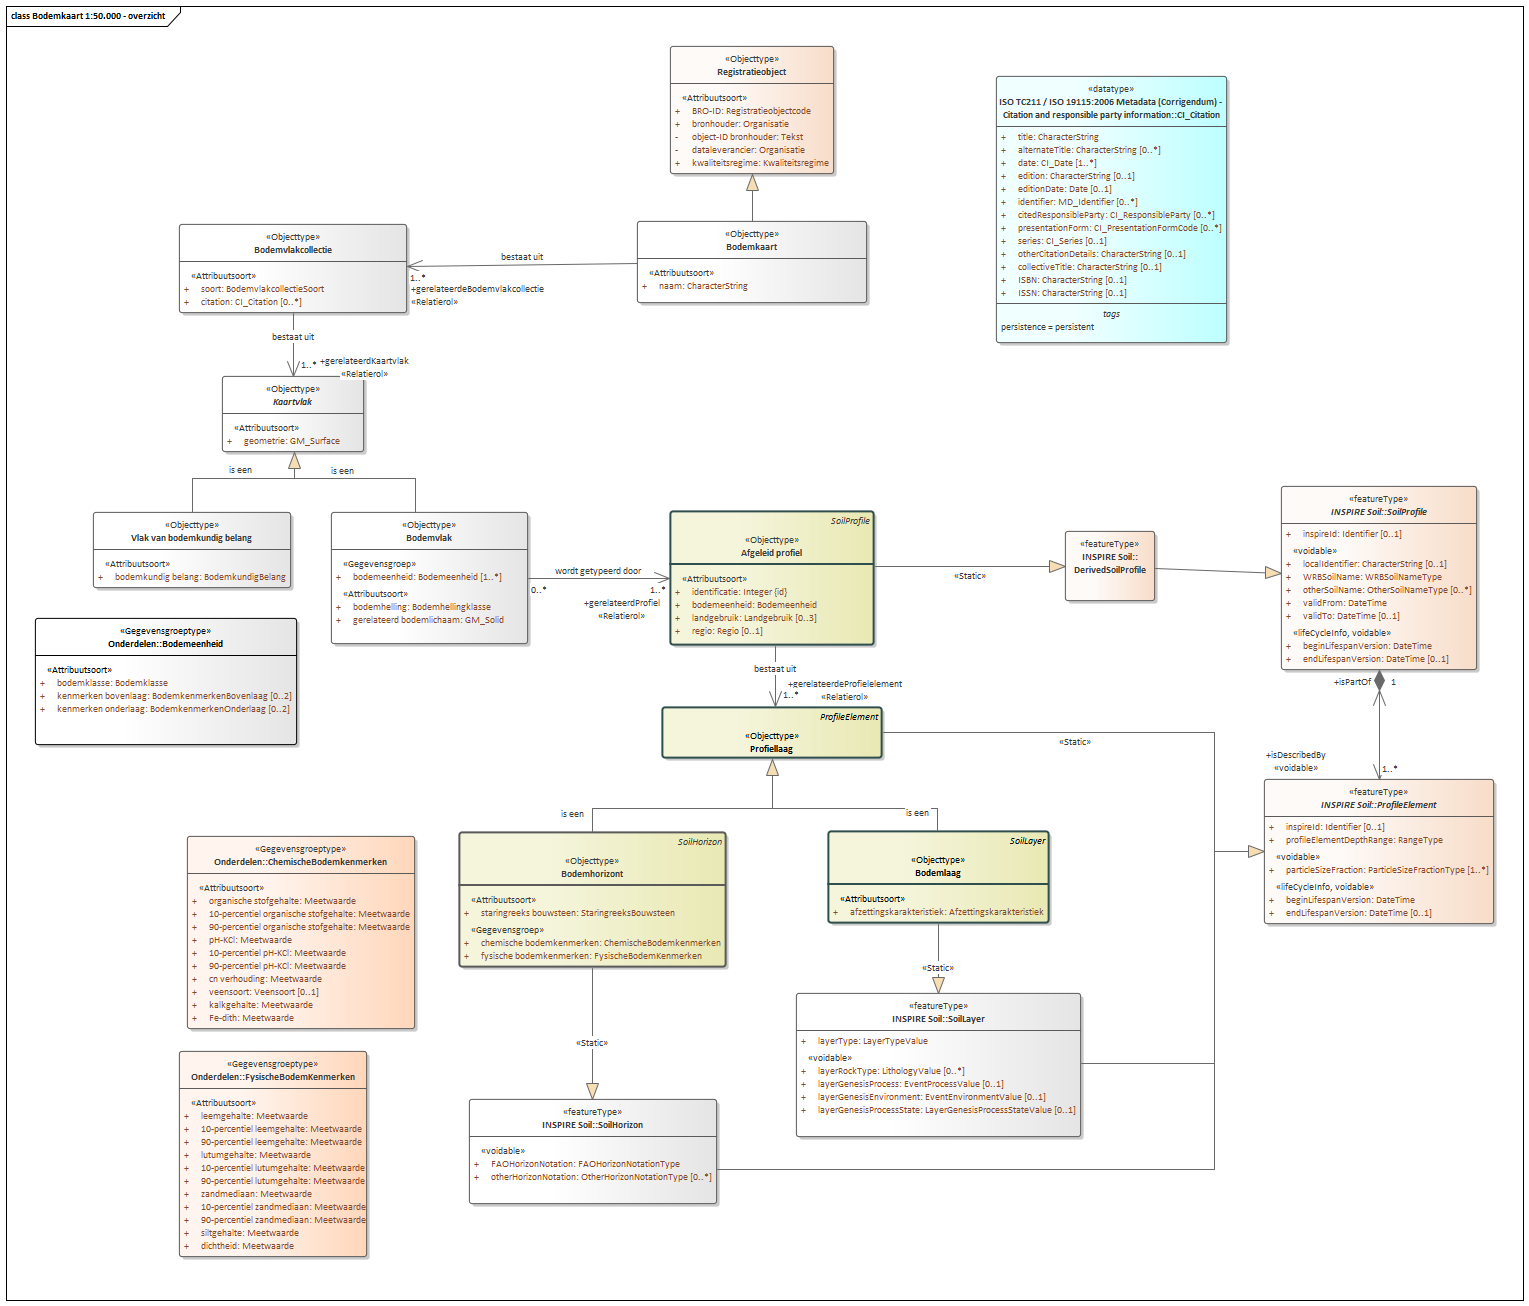
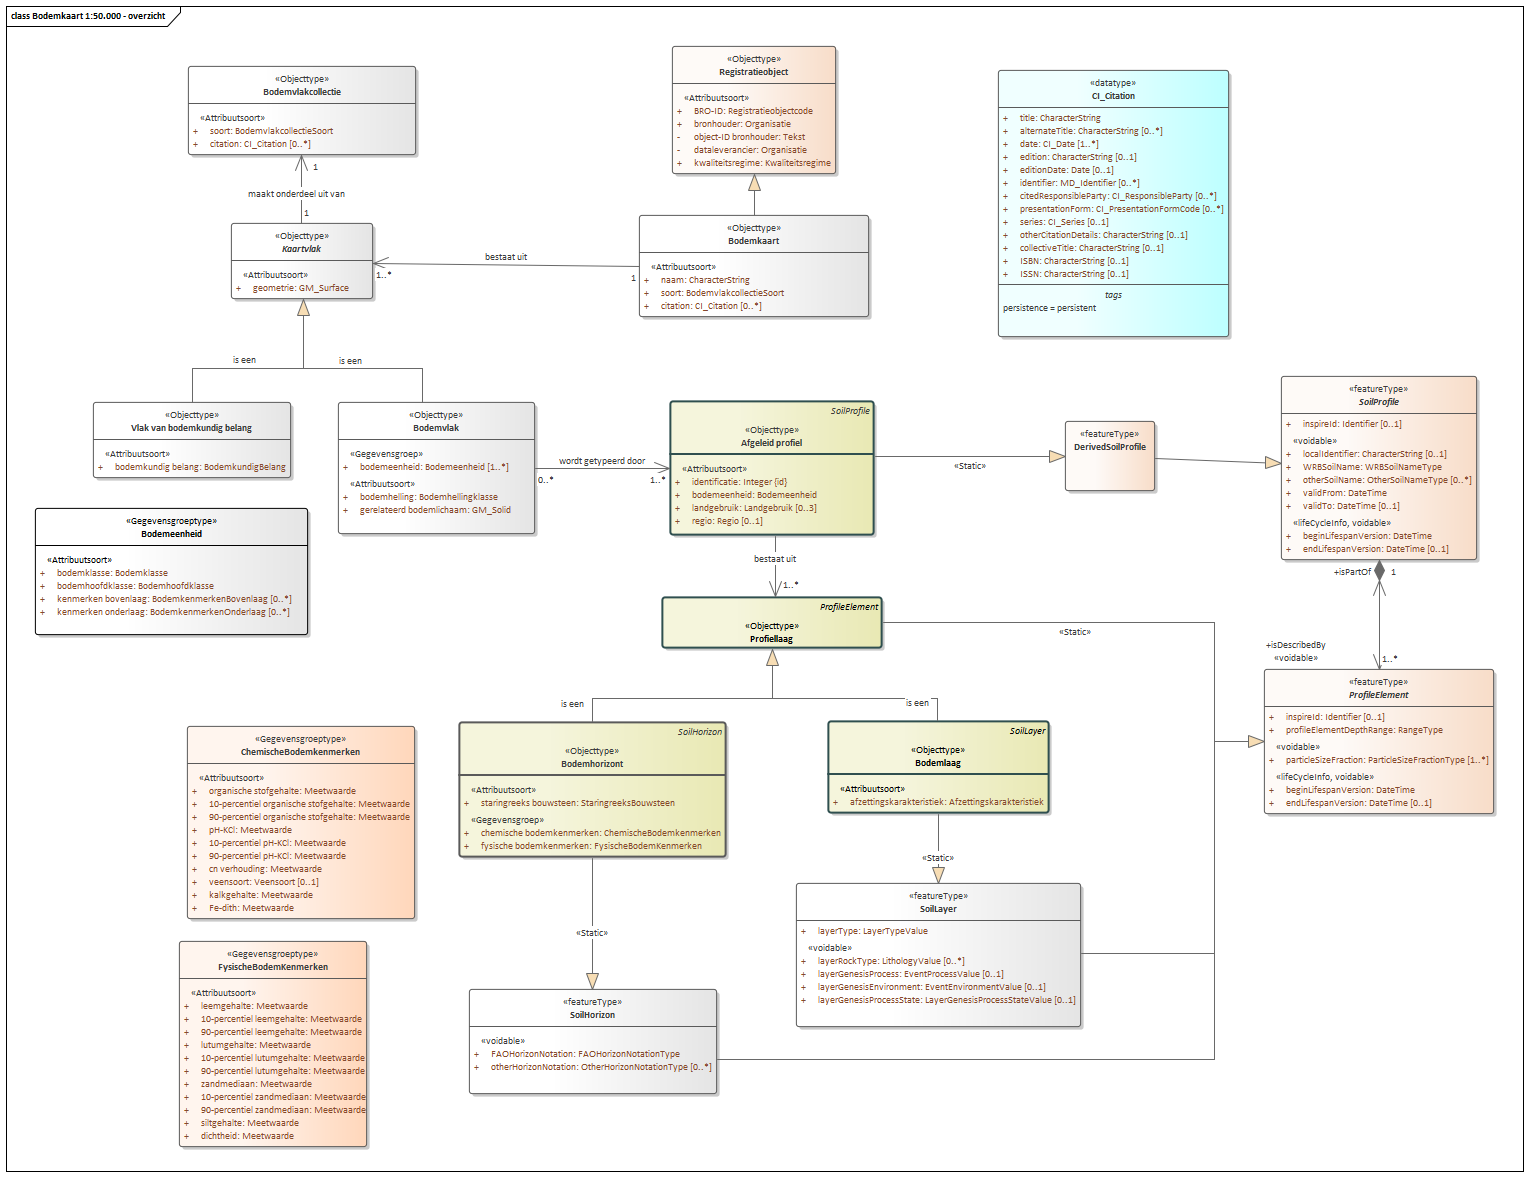
Conceptualmodel-Bodem-engrondwatertrappenkaartSGM-1.0-1-20181205-20201026-085052

diff --git a/data/SGM-cat.msword.html b/data/SGM-cat.msword.html
@@ -14,8 +14,8 @@
    </head>
    <body>
       <p>Conceptual model/Bodem- en grondwatertrappenkaart (SGM)/20181205</p>
-      <p>Imvertor: 1.61.2</p>
-      <p>Model release: Conceptualmodel-Bodem-engrondwatertrappenkaartSGM-1.0-1-20181205-20200831-154407</p>
+      <p>Imvertor: 1.61.3</p>
+      <p>Model release: Conceptualmodel-Bodem-engrondwatertrappenkaartSGM-1.0-1-20181205-20201026-085052</p>
       <hr>
       <section>
          <h1>Artikel 1 Definitie van registratieobject, entiteiten en attributen</h1>
@@ -50,9 +50,7 @@
          <section>
             <h2>Het domeinmodel</h2>
             <section id="">
-               <div class="imageinfo overview"><img src="Images/EAID_6F1DEB4D_0857_407f_96D1_68CEB4BA18C6.png" usemap="#imagemap-EAID_6F1DEB4D_0857_407f_96D1_68CEB4BA18C6" alt="Diagram "><map name="imagemap-EAID_6F1DEB4D_0857_407f_96D1_68CEB4BA18C6"><area shape="rect" alt="Bodemvlakcollectie" coords="179,224,407,313" href="#graph_EAID_A52CE810_6926_44e0_B47D_79E461ECFE42"><area shape="rect" alt="Registratieobject" coords="670,46,834,174" href="#graph_EAID_93C35E9C_DB6B_4fad_AD2F_6D72CB028948"><area shape="rect" alt="FysischeBodemKenmerken" coords="179,1051,367,1257" href="#graph_EAID_7487B6E9_2821_4136_A6BD_45BCC55D08C4"><area shape="rect" alt="ChemischeBodemkenmerken" coords="187,836,415,1029" href="#graph_EAID_E7CD7773_A9F8_46e0_87D3_D98930256054"><area shape="rect" alt="Profiellaag" coords="662,707,882,758" href="#graph_EAID_9FA1F427_89ED_4c1a_ACE5_19CC4E4574CA"><area shape="rect" alt="Bodemlaag" coords="828,831,1049,923" href="#graph_EAID_D6147D13_A2CE_4eac_846C_D98CF51FC411"><area shape="rect" alt="Bodemhorizont" coords="459,832,726,967" href="#graph_EAID_51B920BD_F7BA_420b_8BC2_F95666441BBE"><area shape="rect" alt="Afgeleid profiel" coords="670,511,874,645" href="#graph_EAID_F7554868_9447_4c85_91F2_85A060A04221"><area shape="rect" alt="Bodemkaart" coords="637,221,867,303" href="#graph_EAID_5403E30C_F3F4_4c09_907F_D48BE501C19C"><area shape="rect" alt="Kaartvlak" coords="222,376,364,452" href="#graph_EAID_99801C7D_8272_47b8_8892_0FFAA25819DC"><area shape="rect" alt="Vlak van bodemkundig belang" coords="93,512,291,588" href="#graph_EAID_FFE7D8E2_A953_49c6_AB62_7366945DDAB6"><area shape="rect" alt="Bodemvlak" coords="331,512,528,644" href="#graph_EAID_1A0B021D_CECB_4888_896B_045EDB9287FB"><area shape="rect" alt="Bodemeenheid" coords="35,618,297,745" href="#graph_EAID_851EC4B0_D56E_4be9_A97B_2603C79F70A0"></map><p><b>Bodemkaart 1:50.000</b></p>
-               </div>
-               <div class="imageinfo overview"><img src="Images/EAID_2793BB12_5218_46ab_B17A_9F4C5C392B77.png" usemap="#imagemap-EAID_2793BB12_5218_46ab_B17A_9F4C5C392B77" alt="Diagram "><map name="imagemap-EAID_2793BB12_5218_46ab_B17A_9F4C5C392B77"><area shape="rect" alt="Regio" coords="1617,46,1779,187" href="#graph_EAID_71DE2E29_F39A_485e_B124_80FF3FBCA181"><area shape="rect" alt="Landgebruik" coords="1440,46,1540,160" href="#graph_EAID_E6891C10_4381_49af_88F6_76AB00B3EC38"><area shape="rect" alt="BodemvlakcollectieSoort" coords="1066,46,1420,1435" href="#graph_EAID_5E3D75B5_CE9E_49f3_8210_6B864BF1D2C8"><area shape="rect" alt="StaringreeksBouwsteen" coords="946,46,1046,577" href="#graph_EAID_A917BA6F_0EC3_4fc7_80D5_2F204F61DA5A"><area shape="rect" alt="BodemkundigBelang" coords="826,46,926,265" href="#graph_EAID_803E52C2_E581_448f_A721_83925F3746D1"><area shape="rect" alt="Bodemklasse" coords="689,46,748,4555" href="#graph_EAID_56676ADB_C4F7_41a8_872A_B2198F6F6835"><area shape="rect" alt="BodemkenmerkenOnderlaag" coords="547,46,669,239" href="#graph_EAID_5463CF56_01BC_4f0c_88A7_11F479050C47"><area shape="rect" alt="BodemkenmerkenBovenlaag" coords="405,46,527,278" href="#graph_EAID_21FF9CA4_F85D_4d76_B3FC_6AD3B00C742C"></map><p><b>Code- en referentielijsten</b></p>
+               <div class="imageinfo overview"><img src="Images/EAID_6F1DEB4D_0857_407f_96D1_68CEB4BA18C6.png" usemap="#imagemap-EAID_6F1DEB4D_0857_407f_96D1_68CEB4BA18C6" alt="Diagram "><map name="imagemap-EAID_6F1DEB4D_0857_407f_96D1_68CEB4BA18C6"><area shape="rect" alt="Bodemvlakcollectie" coords="188,66,416,155" href="#graph_EAID_A52CE810_6926_44e0_B47D_79E461ECFE42"><area shape="rect" alt="Registratieobject" coords="672,46,836,174" href="#graph_EAID_93C35E9C_DB6B_4fad_AD2F_6D72CB028948"><area shape="rect" alt="FysischeBodemKenmerken" coords="179,941,367,1147" href="#graph_EAID_7487B6E9_2821_4136_A6BD_45BCC55D08C4"><area shape="rect" alt="ChemischeBodemkenmerken" coords="187,726,415,919" href="#graph_EAID_E7CD7773_A9F8_46e0_87D3_D98930256054"><area shape="rect" alt="Profiellaag" coords="662,597,882,648" href="#graph_EAID_9FA1F427_89ED_4c1a_ACE5_19CC4E4574CA"><area shape="rect" alt="Bodemlaag" coords="828,721,1049,813" href="#graph_EAID_D6147D13_A2CE_4eac_846C_D98CF51FC411"><area shape="rect" alt="Bodemhorizont" coords="459,722,726,857" href="#graph_EAID_51B920BD_F7BA_420b_8BC2_F95666441BBE"><area shape="rect" alt="Afgeleid profiel" coords="670,401,874,535" href="#graph_EAID_F7554868_9447_4c85_91F2_85A060A04221"><area shape="rect" alt="Bodemkaart" coords="639,215,869,317" href="#graph_EAID_5403E30C_F3F4_4c09_907F_D48BE501C19C"><area shape="rect" alt="Kaartvlak" coords="231,223,373,299" href="#graph_EAID_99801C7D_8272_47b8_8892_0FFAA25819DC"><area shape="rect" alt="Vlak van bodemkundig belang" coords="93,402,291,478" href="#graph_EAID_FFE7D8E2_A953_49c6_AB62_7366945DDAB6"><area shape="rect" alt="Bodemvlak" coords="338,402,535,534" href="#graph_EAID_1A0B021D_CECB_4888_896B_045EDB9287FB"><area shape="rect" alt="Bodemeenheid" coords="35,508,308,635" href="#graph_EAID_851EC4B0_D56E_4be9_A97B_2603C79F70A0"></map><p><b>Bodemkaart 1:50.000</b></p>
                </div>
             </section>
          </section>
@@ -114,6 +112,64 @@
                            <tr>
                               <th>Toelichting</th>
                               <td>Bijvoorbeeld het kaartbladnummer of naam van het project.</td>
+                           </tr>
+                        </tbody>
+                     </table>
+                     </section><a class="anchor" id="detail_attribute_BodemkaartSGM_Bodemkaart_soort"></a><section id="detail_attribute_BodemkaartSGM_Bodemkaart_soort">
+                     <h4>  soort</h4>
+                     
+                     <table style="width: 100%;">
+                        <colgroup style="width: 30%;"></colgroup>
+                        <colgroup style="width: 70%;"></colgroup>
+                        <tbody>
+                           <tr>
+                              <th>Type gegeven</th>
+                              <td>Attribuut van Bodemkaart</td>
+                           </tr>
+                           <tr>
+                              <th>Juridische status</th>
+                              <td>Authentiek</td>
+                           </tr>
+                           <tr>
+                              <th>Kardinaliteit</th>
+                              <td>1</td>
+                           </tr>
+                           <tr>
+                              <th>Domein</th>
+                              <td></td>
+                           </tr>
+                           <tr>
+                              <th>&nbsp;&nbsp;Naam</th>
+                              <td>BodemvlakcollectieSoort</td>
+                           </tr>
+                        </tbody>
+                     </table>
+                     </section><a class="anchor" id="detail_attribute_BodemkaartSGM_Bodemkaart_citation"></a><section id="detail_attribute_BodemkaartSGM_Bodemkaart_citation">
+                     <h4>  citation</h4>
+                     
+                     <table style="width: 100%;">
+                        <colgroup style="width: 30%;"></colgroup>
+                        <colgroup style="width: 70%;"></colgroup>
+                        <tbody>
+                           <tr>
+                              <th>Type gegeven</th>
+                              <td>Attribuut van Bodemkaart</td>
+                           </tr>
+                           <tr>
+                              <th>Juridische status</th>
+                              <td>Authentiek</td>
+                           </tr>
+                           <tr>
+                              <th>Kardinaliteit</th>
+                              <td>0..*</td>
+                           </tr>
+                           <tr>
+                              <th>Domein</th>
+                              <td></td>
+                           </tr>
+                           <tr>
+                              <th>&nbsp;&nbsp;Naam</th>
+                              <td>CI_Citation</td>
                            </tr>
                         </tbody>
                      </table>
@@ -485,10 +541,6 @@
                               <p>Beschrijving van de bodem die wordt gekenmerkt door een verticale opeenvolging van
                                  profielelementen (horizonten en lagen).</p>
                               </td>
-                        </tr>
-                        <tr>
-                           <th>Herkomst definitie</th>
-                           <td>INSPIRE data specification Soil &lt;referentie toevoegen&gt;</td>
                         </tr>
                         <tr>
                            <th>Toelichting</th>
@@ -1134,10 +1186,6 @@
                               <th>&nbsp;&nbsp;Eenheid</th>
                               <td>massaprocenten</td>
                            </tr>
-                           <tr>
-                              <th>&nbsp;&nbsp;Waardebereik</th>
-                              <td>BRO tot BRO</td>
-                           </tr>
                         </tbody>
                      </table>
                      </section><a class="anchor" id="detail_attribute_BodemkaartSGM_ChemischeBodemkenmerken_Fedith"></a><section id="detail_attribute_BodemkaartSGM_ChemischeBodemkenmerken_Fedith">
@@ -1179,10 +1227,6 @@
                            <tr>
                               <th>&nbsp;&nbsp;Eenheid</th>
                               <td>massaprocenten</td>
-                           </tr>
-                           <tr>
-                              <th>&nbsp;&nbsp;Waardebereik</th>
-                              <td>BRO tot BRO</td>
                            </tr>
                         </tbody>
                      </table>
@@ -1719,6 +1763,35 @@
                            </tr>
                         </tbody>
                      </table>
+                     </section><a class="anchor" id="detail_attribute_BodemkaartSGM_Bodemeenheid_bodemhoofdklasse"></a><section id="detail_attribute_BodemkaartSGM_Bodemeenheid_bodemhoofdklasse">
+                     <h4>  bodemhoofdklasse</h4>
+                     
+                     <table style="width: 100%;">
+                        <colgroup style="width: 30%;"></colgroup>
+                        <colgroup style="width: 70%;"></colgroup>
+                        <tbody>
+                           <tr>
+                              <th>Type gegeven</th>
+                              <td>Attribuut van Bodemeenheid</td>
+                           </tr>
+                           <tr>
+                              <th>Juridische status</th>
+                              <td>Authentiek</td>
+                           </tr>
+                           <tr>
+                              <th>Kardinaliteit</th>
+                              <td>1</td>
+                           </tr>
+                           <tr>
+                              <th>Domein</th>
+                              <td></td>
+                           </tr>
+                           <tr>
+                              <th>&nbsp;&nbsp;Naam</th>
+                              <td>Bodemhoofdklasse</td>
+                           </tr>
+                        </tbody>
+                     </table>
                      </section><a class="anchor" id="detail_attribute_BodemkaartSGM_Bodemeenheid_kenmerkenbovenlaag"></a><section id="detail_attribute_BodemkaartSGM_Bodemeenheid_kenmerkenbovenlaag">
                      <h4>  kenmerken bovenlaag</h4>
                      
@@ -1743,7 +1816,7 @@
                            </tr>
                            <tr>
                               <th>Kardinaliteit</th>
-                              <td>0..2</td>
+                              <td>0..*</td>
                            </tr>
                            <tr>
                               <th>Domein</th>
@@ -1779,7 +1852,7 @@
                            </tr>
                            <tr>
                               <th>Kardinaliteit</th>
-                              <td>0..2</td>
+                              <td>0..*</td>
                            </tr>
                            <tr>
                               <th>Domein</th>
@@ -2306,6 +2379,172 @@
                      <td>
                         
                         <p>Zeer steil, hellingspercentage &gt;25%.</p>
+                        </td>
+                  </tr>
+               </tbody>
+            </table>
+            </section>
+         <section id="detail_class_BodemkaartSGM_Bodemhoofdklasse">
+            <h3>  Bodemhoofdklasse</h3>
+            
+            <table style="width: 100%;" class="list">
+               <colgroup></colgroup>
+               <tbody>
+                  <tr>
+                     <td>
+                        
+                        <p>Generalisatie van bodemtypen op basis van moedermateriaal (grondsoort en afzettingswijze)
+                           en bodemvorming.</p>
+                        </td>
+                  </tr>
+               </tbody>
+            </table>
+            
+            <table style="width: 100%;" class="list">
+               <colgroup style="width: 20%;"></colgroup>
+               <colgroup style="width: 5%;"></colgroup>
+               <colgroup style="width: 5%;"></colgroup>
+               <colgroup></colgroup>
+               <tbody>
+                  <tr>
+                     <th>Waarde</th>
+                     <th>IMBRO</th>
+                     <th>IMBRO/A</th>
+                     <th>Omschrijving</th>
+                  </tr>
+                  <tr>
+                     <td>V</td>
+                     <td>✔</td>
+                     <td>✔</td>
+                     <td>
+                        
+                        <p>Veengronden</p>
+                        </td>
+                  </tr>
+                  <tr>
+                     <td>W</td>
+                     <td>✔</td>
+                     <td>✔</td>
+                     <td>
+                        
+                        <p>Moerige gronden</p>
+                        </td>
+                  </tr>
+                  <tr>
+                     <td>H en Y</td>
+                     <td>✔</td>
+                     <td>✔</td>
+                     <td>
+                        
+                        <p>Podzolgronden</p>
+                        </td>
+                  </tr>
+                  <tr>
+                     <td>B</td>
+                     <td>✔</td>
+                     <td>✔</td>
+                     <td>
+                        
+                        <p>Brikgronden</p>
+                        </td>
+                  </tr>
+                  <tr>
+                     <td>EZ, EL, EK</td>
+                     <td>✔</td>
+                     <td>✔</td>
+                     <td>
+                        
+                        <p>Dikke eerdgronden</p>
+                        </td>
+                  </tr>
+                  <tr>
+                     <td>Z</td>
+                     <td>✔</td>
+                     <td>✔</td>
+                     <td>
+                        
+                        <p>Kalkloze zandgronden</p>
+                        </td>
+                  </tr>
+                  <tr>
+                     <td>Z..A</td>
+                     <td>✔</td>
+                     <td>✔</td>
+                     <td>
+                        
+                        <p>Kalkhoudende zandgronden</p>
+                        </td>
+                  </tr>
+                  <tr>
+                     <td>S..A</td>
+                     <td>✔</td>
+                     <td>✔</td>
+                     <td>
+                        
+                        <p>Kalkhoudende bijzonder lutumarme gronden</p>
+                        </td>
+                  </tr>
+                  <tr>
+                     <td>MO en RO</td>
+                     <td>✔</td>
+                     <td>✔</td>
+                     <td>
+                        
+                        <p>Niet-gerijpte minerale gronden</p>
+                        </td>
+                  </tr>
+                  <tr>
+                     <td>M</td>
+                     <td>✔</td>
+                     <td>✔</td>
+                     <td>
+                        
+                        <p>Zeekleigronden</p>
+                        </td>
+                  </tr>
+                  <tr>
+                     <td>R</td>
+                     <td>✔</td>
+                     <td>✔</td>
+                     <td>
+                        
+                        <p>Rivierkleigronden</p>
+                        </td>
+                  </tr>
+                  <tr>
+                     <td>KR</td>
+                     <td>✔</td>
+                     <td>✔</td>
+                     <td>
+                        
+                        <p>Oude rivierkleigronden</p>
+                        </td>
+                  </tr>
+                  <tr>
+                     <td>KX en KT</td>
+                     <td>✔</td>
+                     <td>✔</td>
+                     <td>
+                        
+                        <p>Oude kleigronden</p>
+                        </td>
+                  </tr>
+                  <tr>
+                     <td>L</td>
+                     <td>✔</td>
+                     <td>✔</td>
+                     <td>
+                        
+                        <p>Leemgronden</p>
+                        </td>
+                  </tr>
+                  <tr>
+                     <td>MZ, MK, MA, FK, FG, KM, KK, KS</td>
+                     <td>✔</td>
+                     <td>✔</td>
+                     <td>
+                        
+                        <p>Oude gronden in Zuid-Limburg</p>
                         </td>
                   </tr>
                </tbody>
